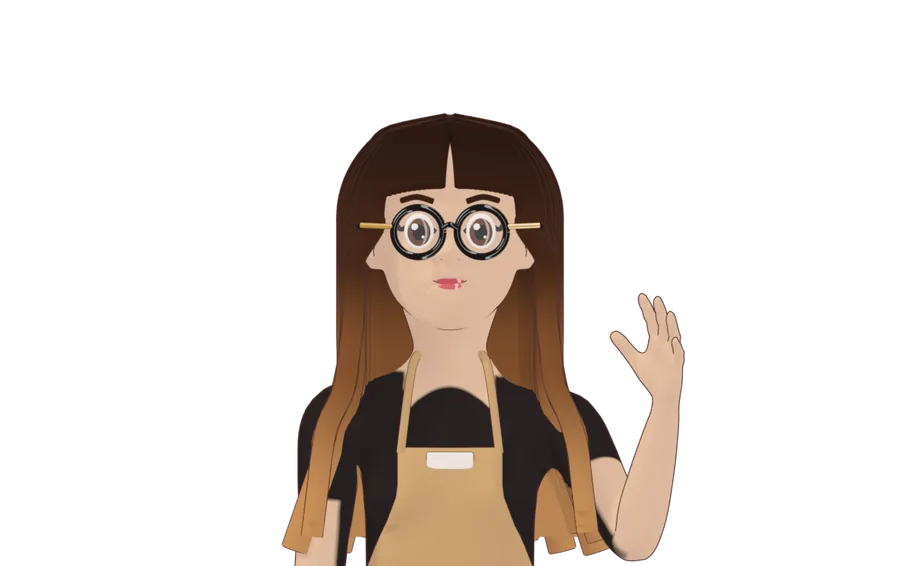
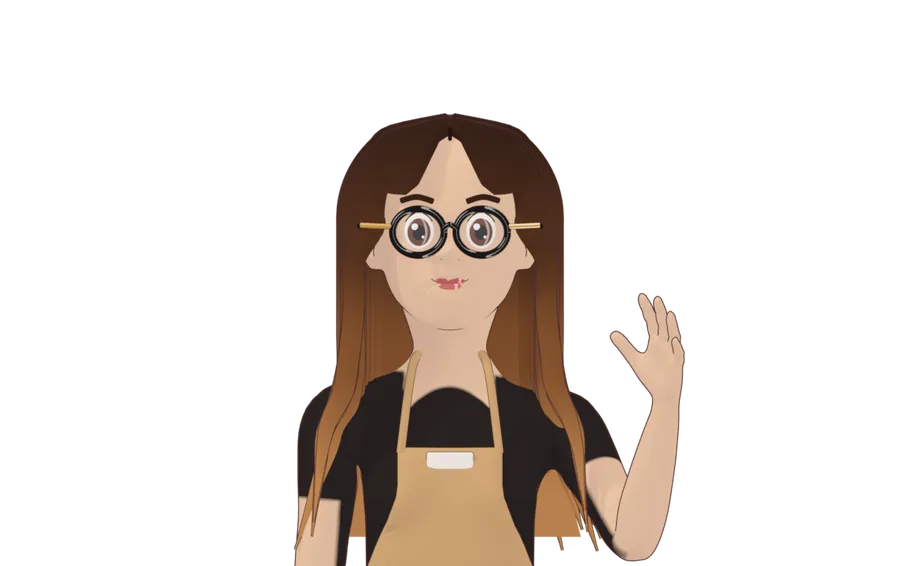
Helper: curtain bangs with pointed tips, oval glasses, softer lips and cleaner eyes, closer to the reference photo (#18)

Changed region(s): [[0.4356, 0.2403, 0.5911, 0.4806], [0.5911, 0.7208, 0.6844, 0.9912], [0.3111, 0.7208, 0.4044, 0.9912]]

diff --git a/tools/blender/helper_style.py b/tools/blender/helper_style.py
@@ -27,7 +27,7 @@ M = importlib.util.module_from_spec(spec); spec.loader.exec_module(M)
 toon, finish, link, sphere, tube, smooth_curve, lathe, srgb = M.toon, M.finish, M.link, M.sphere, M.tube, M.smooth_curve, M.lathe, M.srgb
 
 SKIN = '#f3cfae'; TOP = '#2b2524'; APRON = '#d9b07c'; FRAMEC = '#1d1a1a'; GOLD = '#d4a94c'
-HAIR_STOPS = [(0.0, '#2e1c14'), (0.32, '#4a2c1c'), (0.62, '#8f5a32'), (1.0, '#d39a5e')]
+HAIR_STOPS = [(0.0, '#3a241a'), (0.3, '#5a3622'), (0.6, '#8f5a32'), (1.0, '#cf9358')]
 
 
 def toon_grad(name, stops, z_top, z_bot, kind='gloss'):
@@ -240,7 +240,7 @@ def body_B():
         ring = [bvh.ray_cast(Vector((e.x + 2.6 * math.cos(a), -60, e.z + 2.6 * math.sin(a))), Vector((0, 1, 0)))[0] for a in [k * math.pi / 4 for k in range(8)]]
         fy_ = min(h.y for h in ring if h) if any(ring) else e.y
         eyeball("eye" + str(s), Vector((e.x, fy_ - 0.15, e.z)), 1.95)
-        tube('lid', smooth_curve([onface(e.x - s * 1.7 * hk, e.z - 0.1, 0.05), onface(e.x, e.z + 1.15 * hk, 0.15), onface(e.x + s * 1.75 * hk, e.z + 0.25, 0.1), onface(e.x + s * 2.3 * hk, e.z + 0.75, 0.1)], 6), 0.34, lid, outline=0)
+        tube('lid', smooth_curve([onface(e.x - s * 1.35 * hk, e.z + 1.3, 0.05), onface(e.x, e.z + 2.3 * hk, 0.15), onface(e.x + s * 1.35 * hk, e.z + 1.3, 0.1)], 6), 0.2, lid, outline=0)
         tube('brow', smooth_curve([onface(e.x - s * 1.9, e.z + 4.1 + BROW), onface(e.x + s * 0.3, e.z + 4.7 + BROW * 0.5), onface(e.x + s * 2.4, e.z + 4.2 - BROW * 0.3)], 6), 0.42, brow, outline=0)
         bl = onface(s * (abs(e.x) + 1.3), e.z - 3.6, -0.05)
         sphere('blush', 1.0, toon('blush', '#f2948a', alpha=0.0, edge=0.45), loc=bl, scale=(2.1, 0.22, 1.2), outline=0)
@@ -271,13 +271,22 @@ BROW = 0.0        # tilts the inner ends of the brows up (worried) or down
 
 def mouth(onface, mz):
     ink = toon('lipline', '#8a3a3a', lo=0.9)
-    up = toon('lipup', '#d9606c', 'gloss', lo=0.8); lo = toon('liplo', '#e8777f', 'gloss', lo=0.8)
+    up = toon('lipup', '#c9686a', 'gloss', lo=0.8); lo = toon('liplo', '#d97b78', 'gloss', lo=0.8)
     if MOUTH == 'smile':       # two soft rouged lips with a thin smiling line between them
-        x, y, z = onface(0, mz + 0.3, -0.1)
-        sphere('lipup', 1.0, up, loc=(x, y, z), scale=(1.95, 0.3, 0.4), outline=0)
-        x, y, z = onface(0, mz - 0.4, -0.1)
-        sphere('liplo', 1.0, lo, loc=(x, y, z), scale=(1.65, 0.34, 0.55), outline=0)
-        tube('smile', smooth_curve([onface(-2.3, mz + 0.35, -0.2), onface(-1.0, mz - 0.02, -0.28), onface(1.0, mz - 0.02, -0.28), onface(2.3, mz + 0.35, -0.2)], 10), 0.1, ink, outline=0)
+        # upper lip: two soft mounds with a dip between them (cupid's bow), fuller lower lip below
+        for sx in (-0.8, 0.8):
+            x, y, z = onface(sx, mz + 0.34, -0.1)
+            sphere('lipup', 1.0, up, loc=(x, y, z), scale=(1.2, 0.3, 0.38), outline=0)
+        x, y, z = onface(0, mz + 0.18, -0.1)
+        sphere('lipup', 1.0, up, loc=(x, y, z), scale=(1.95, 0.3, 0.3), outline=0)
+        x, y, z = onface(0, mz - 0.42, -0.1)
+        sphere('liplo', 1.0, lo, loc=(x, y, z), scale=(1.6, 0.34, 0.58), outline=0)
+        # thin smiling line between the lips, a tiny tick at each corner, a soft shine on the lower lip
+        tube('smile', smooth_curve([onface(-2.3, mz + 0.4, -0.2), onface(-1.0, mz - 0.02, -0.28), onface(1.0, mz - 0.02, -0.28), onface(2.3, mz + 0.4, -0.2)], 10), 0.09, ink, outline=0, taper=0.0)
+        for sx in (-1, 1):
+            tube('corner', [onface(sx * 2.3, mz + 0.4, -0.2), onface(sx * 2.55, mz + 0.62, -0.18)], 0.07, ink, outline=0)
+        x, y, z = onface(-0.45, mz - 0.5, -0.45)
+        sphere('lipshine', 1.0, toon('lipshine', '#fbd0d0', lo=0.95), loc=(x, y, z), scale=(0.45, 0.1, 0.14), outline=0)
     elif MOUTH == 'open':      # an open laugh: a dark D with teeth and a tongue
         x, y, z = onface(0, mz - 0.1, -0.08)
         ux, uy, uz = onface(0, mz + 0.8, -0.1); lx, ly, lz = onface(0, mz - 1.15, -0.1)
@@ -453,22 +462,29 @@ def hair(H):
                 x = x0 * (1 + 0.025 * drop)
                 y = y0 + 0.08 * drop
             pts.append((x, y, z))
-        locks.append(tube('lock', smooth_curve(pts, 4), 1.45 if front else 1.9, m, outline=0.1))
-    # bangs: locks from the part, over the forehead, swept to the sides above the brows
-    for j in range(24):
-        u = (j + 0.5) / 24
+        locks.append(tube('lock', smooth_curve(pts, 4), 1.45 if front else 1.9, m, outline=0.1, taper=0.22))
+    # bangs: many thin locks from the part, over the forehead, swept to the sides above the brows;
+    # uneven lengths with pointed tips, and a few wisps hanging lower in front of the face
+    NB = 44
+    for j in range(NB):
+        u = (j + 0.5) / NB
         sd = -1 if u < 0.5 else 1
         bb = (u if u < 0.5 else 1 - u) * 2
-        theta = sd * (0.1 + bb * 0.75)
-        z_end = H['eye_z'] + 6.2 - 1.4 * bb * bb
+        theta = sd * (0.3 + bb * 0.6)          # curtain bangs: the forehead stays open at the middle
+        wob = math.sin(j * 2.9)
+        z_end = H['eye_z'] + 5.0 + 1.2 * bb * bb
+        sweep = 0.8 + 1.4 * (1 - bb)           # the longest locks sweep farthest out to the sides
         pts = []
         for t in range(9):
-            z = top + 0.3 - t * (top + 0.3 - z_end) / 8
+            f = t / 8
+            z = top + 0.3 - f * (top + 0.3 - z_end)
             x, y = head_surf(theta, z, 0.85 + 0.15 * bb)
             if t == 0:
                 x = sd * 0.3
+            else:
+                x += sd * sweep * f * f               # tips curl out to the side
             pts.append((x, y, z))
-        tube('bang', smooth_curve(pts, 4), 1.0, m, outline=0.08)
+        tube('bang', smooth_curve(pts, 4), 0.95, m, outline=0.05, taper=0.2)
     # a cap under the locks so no scalp shows between them
     cap = sphere('cap', 1.0, m, loc=(0, cy - 0.5, cz + 0.2), scale=(rx + 0.9, ry + 2.3, top - cz + 0.9), outline=0.1, segs=64)
     M.keep(cap, lambda x, y, z: (z > H['eye_z'] + 7.4 - 0.1 * x * x or y > cy - 1.0) and z > H['eye_z'] - 1.5)
@@ -492,12 +508,12 @@ def glasses(H):
     fr = toon('frame', FRAMEC, 'gloss', lo=0.8); gold = toon('gold', GOLD, 'metal')
     lens = toon('lens', '#dfe9ee', 'glass', alpha=0.08, edge=0.35)
     y = fy - 1.5
-    R = 3.4
+    R = 3.55; RZ = 3.2     # slightly wide, rounded-oval lenses
     for s in (-1, 1):
         cx = s * (ex + 0.1)
-        ring = [(cx + R * math.cos(a), y + 0.25 * abs(math.cos(a)), ez - 0.15 + R * 1.0 * math.sin(a)) for a in [i * 2 * math.pi / 40 for i in range(41)]]
+        ring = [(cx + R * math.cos(a), y + 0.25 * abs(math.cos(a)), ez - 0.15 + RZ * math.sin(a)) for a in [i * 2 * math.pi / 40 for i in range(41)]]
         tube('rim', ring, 0.45, fr, outline=0.06)
-        sphere('lens', 1.0, lens, loc=(cx, y + 0.15, ez - 0.15), scale=(R, 0.12, R), outline=0)
+        sphere('lens', 1.0, lens, loc=(cx, y + 0.15, ez - 0.15), scale=(R, 0.12, RZ), outline=0)
         # short gold hinges; the temples run back into the hair
         hx = s * (ex + 0.1 + R)
         tube('hinge', [(hx, y + 0.2, ez + 0.6), (s * (H['rx'] - 0.3), y + 1.4, ez + 0.8)], 0.34, gold, outline=0.04)

diff --git a/tools/blender/models.py b/tools/blender/models.py
@@ -223,11 +223,15 @@ def sphere(name, r, mat, loc=(0, 0, 0), scale=(1, 1, 1), outline=0.12, segs=32):
     return finish(o, mat, outline)
 
 
-def tube(name, pts, radius, mat, outline=0.12):
+def tube(name, pts, radius, mat, outline=0.12, taper=0.0):
+    """taper: fraction of the pipe's end that narrows to a point (0 = a plain pipe)"""
     cu = bpy.data.curves.new(name, 'CURVE'); cu.dimensions = '3D'
     sp = cu.splines.new('POLY'); sp.points.add(len(pts) - 1)
-    for p, q in zip(sp.points, pts):
+    for i, (p, q) in enumerate(zip(sp.points, pts)):
         p.co = (q[0], q[1], q[2], 1)
+        if taper:
+            f = i / max(1, len(pts) - 1)
+            p.radius = max(0.05, min(1.0, (1 - f) / taper))
     cu.bevel_depth = radius; cu.bevel_resolution = 6; cu.use_fill_caps = True
     o = link(bpy.data.objects.new(name, cu))
     bpy.context.view_layer.objects.active = o; o.select_set(True)
